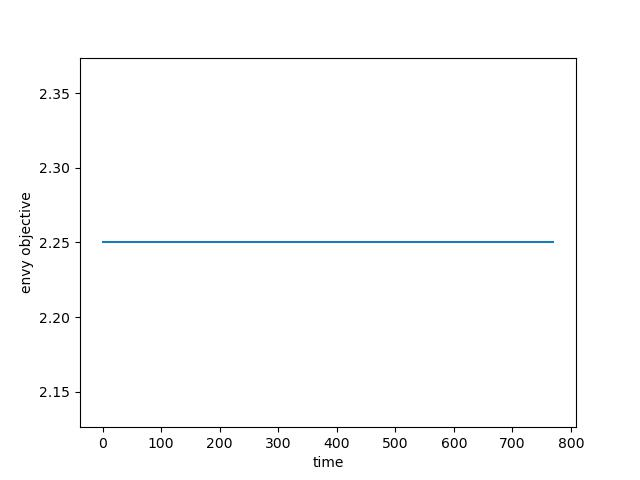
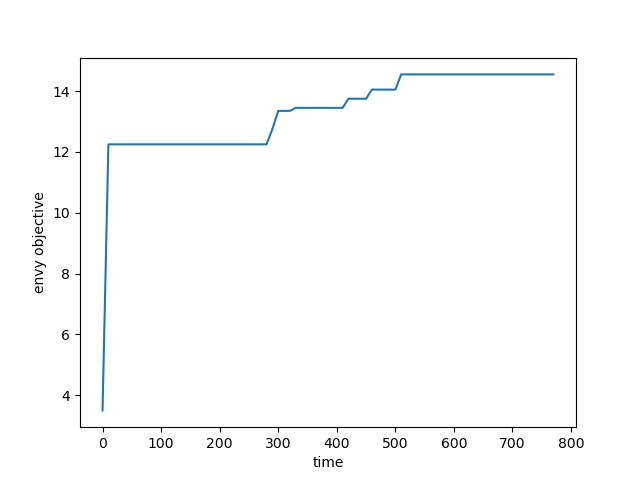
adding compare plot

diff --git a/allocation_seq.py b/allocation_seq.py
@@ -2,8 +2,7 @@ import gurobipy as gp
 from gurobipy import GRB, LinExpr
 import numpy as np
 import matplotlib.pyplot as plt
-
-np.random.seed(100)
+import pickle
 
 def discretize_diff(diff):
     if diff <= 3: return 1  
@@ -73,7 +72,7 @@ def cal_envy(patients, organs, value_dict, all_patients=[]):
                             value_q = value_dict[(q, p)]
                             if value_q > value_o:
                                 envy_op += value_q - value_o
-                    other_envy += (envy_op)/len(organs)
+                    other_envy += (envy_op) #/len(organs)
         total_envy += other_envy
     #obj = welfare - (1/n) * total_envy
     return round(total_envy, 2)
@@ -197,7 +196,7 @@ def gen_data(T, omega, n, init_t=0):
     small_organ_indices = np.random.choice(omega, int(0.25 * n), replace=False) + 1
     return organ_t_rand, E_times_rand, women_indices, small_organ_indices
 
-   
+np.random.seed(300)   
 if __name__ == '__main__':
     # List of organs
     T = 800 #100
@@ -272,7 +271,7 @@ if __name__ == '__main__':
         #Find envy objective value
         envy_val_allocated = cal_envy(rm_p_list, rm_o_list, value_dict)
         envy_val_all = cal_envy(rm_p_list, rm_o_list, value_dict, prev_patients)
-        total_envy += envy_val_allocated
+        total_envy += envy_val_all
         envy_obj_list.append(total_envy)
         print(f'envy obj value for allocated patients: {envy_val_allocated} and all patients at that time frame: {envy_val_all}')
         
@@ -300,6 +299,11 @@ if __name__ == '__main__':
         init_T += add_T
         n_range += add_T
         init_omega += add_omega
+
+    with open(f"results/envy_w_{obj}_t_{T}", "wb") as fp: 
+        pickle.dump(envy_obj_list, fp)
+    with open(f"results/envy_t_{T}", "wb") as fp:
+        pickle.dump(x_time*add_T, fp)
 
     plt.figure()
     plt.plot(x_time*add_T, envy_obj_list)

diff --git a/compare_plot.py b/compare_plot.py
@@ -1,0 +1,24 @@
+import numpy as np
+import matplotlib.pyplot as plt
+import pickle
+
+T = 800
+with open(f"results/envy_w_envy_t_{T}", "rb") as fp: 
+    envy_obj_list = pickle.load(fp)
+with open(f"results/envy_w_welfare_t_{T}", "rb") as fp: 
+    welfare_obj_list = pickle.load(fp)
+with open(f"results/envy_t_{T}", "rb") as fp:
+    ttime = pickle.load(fp)
+
+plt.figure(figsize=(10, 6))
+plt.plot(ttime, envy_obj_list, label='with envy objective')
+plt.plot(ttime, welfare_obj_list, label='with welfare objective')
+
+plt.title(f'Envy value trained with or without envy objective')
+plt.xlabel('time')
+plt.ylabel('Envy value')
+#plt.grid(True)
+plt.legend()
+plt.savefig(f'figures/compare_t_{T}.jpg')
+
+plt.show()
